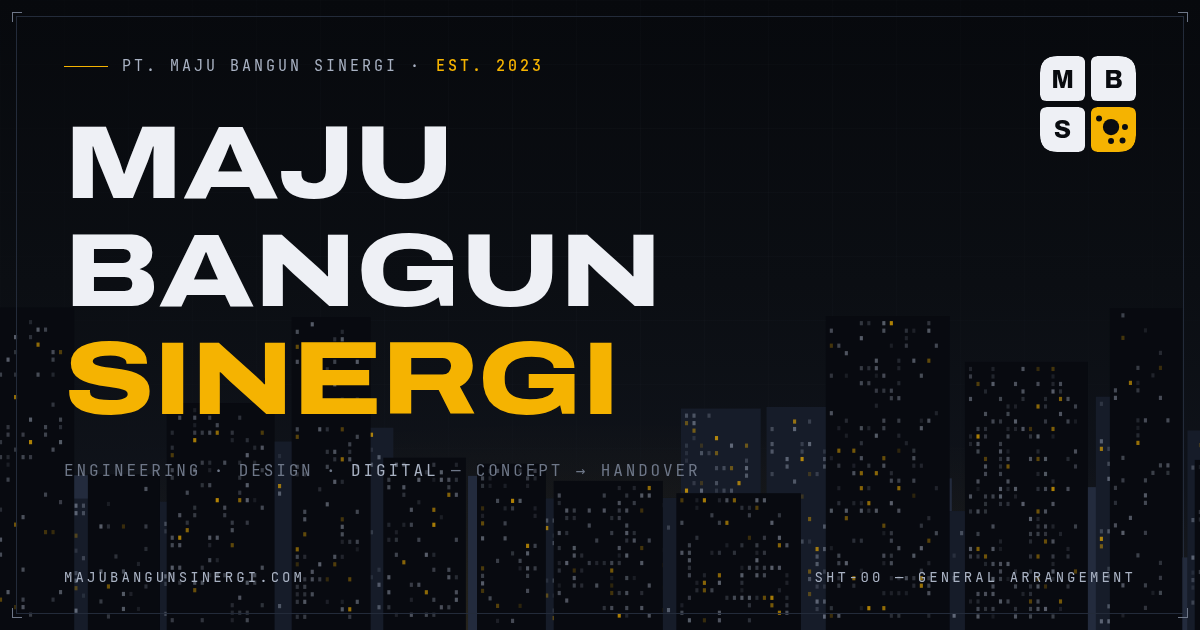
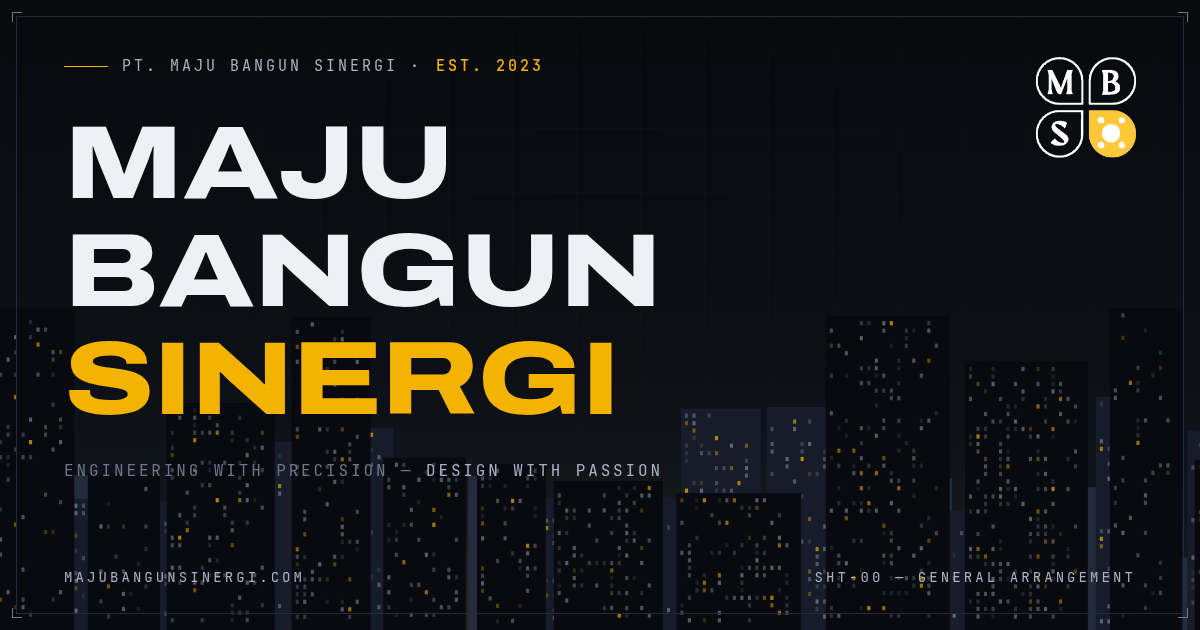
Integrate original brand assets and real contact details
Use the company's actual logo PNG for all brand marks, and pull the
real contact data from the original site files on main: sales e-mail,
WhatsApp number with wa.me links, and the Depok office address (also
in JSON-LD). Adds the "Engineering with Precision, Design with
Passion" tagline, aligns service lists with the original taxonomy
(product design, building automation, AI), and regenerates the OG
card and structured-data logo from the authentic mark.

Claude-Session: https://claude.ai/code/session_01GzoVzJMiJ4jLJJqXyeNzdv

Changed region(s): [[0.8633, 0.0905, 0.9558, 0.2714], [0.185, 0.7238, 0.5858, 0.754]]

diff --git a/index.html b/index.html
@@ -32,7 +32,15 @@
   "foundingDate": "2023",
   "description": "Multidisciplinary engineering company: civil, mechanical and electrical engineering, interior and exterior design, and industrial digital solutions.",
   "logo": "https://majubangunsinergi.com/assets/logo-512.png",
-  "address": { "@type": "PostalAddress", "addressCountry": "ID" }
+  "email": "sales@majubangunsinergi.com",
+  "telephone": "+6285280448499",
+  "address": {
+    "@type": "PostalAddress",
+    "streetAddress": "Jl. Raffles Hills Boulevard No. 23, Sukatani, Kec. Tapos",
+    "addressLocality": "Depok",
+    "addressRegion": "Jawa Barat",
+    "addressCountry": "ID"
+  }
 }
 </script>
 <style>
@@ -164,7 +172,7 @@ button{font:inherit;color:inherit;background:none;border:0;cursor:pointer}
   padding-top:12px;padding-bottom:12px;
 }
 .brand{display:flex;align-items:center;gap:14px;min-width:0}
-.brand .logo{width:42px;height:42px;flex:none}
+.brand .logo{height:42px;width:auto;flex:none}
 .brand-name{display:flex;flex-direction:column;gap:2px;line-height:1}
 .brand-name .nm{
   font-weight:750;font-stretch:118%;font-size:13.5px;letter-spacing:.1em;
@@ -577,7 +585,7 @@ section{position:relative}
   background:repeating-linear-gradient(45deg,transparent 0 9px,var(--line-soft) 9px 10px);
 }
 .tb-stamp{display:flex;align-items:center;gap:14px;padding:22px clamp(20px,2.6vw,32px)}
-.tb-stamp .logo{width:52px;height:52px;flex:none}
+.tb-stamp .logo{height:54px;width:auto;flex:none}
 .tb-stamp .st-txt{font-family:var(--font-mono);font-size:9.5px;letter-spacing:.18em;color:var(--zinc-dim);text-transform:uppercase;line-height:1.8}
 @media (max-width:900px){
   .tblock{grid-template-columns:1fr}
@@ -591,7 +599,7 @@ section{position:relative}
 .site-foot{border-top:1px solid var(--line);padding:34px 0 calc(26px + var(--frame))}
 .site-foot .wrap{display:flex;align-items:center;justify-content:space-between;gap:20px;flex-wrap:wrap}
 .foot-brand{display:flex;align-items:center;gap:12px}
-.foot-brand .logo{width:30px;height:30px}
+.foot-brand .logo{height:34px;width:auto}
 .foot-links{display:flex;gap:26px;list-style:none;flex-wrap:wrap}
 .foot-links a{
   font-family:var(--font-mono);font-size:10.5px;letter-spacing:.16em;text-transform:uppercase;color:var(--zinc-dim);
@@ -680,7 +688,7 @@ section{position:relative}
 
 <header class="site-head" id="top">
   <a class="brand" href="#top" aria-label="PT. Maju Bangun Sinergi — home">
-    <svg class="logo" style="color:var(--paper)" aria-hidden="true"><use href="#mbs-logo"/></svg>
+    <img class="logo" src="assets/logo.png" alt="" width="184" height="191">
     <span class="brand-name">
       <span class="nm">MAJU BANGUN SINERGI</span>
       <span class="sub">PT&nbsp;·&nbsp;ENGINEERING&nbsp;·&nbsp;DESIGN&nbsp;·&nbsp;DIGITAL</span>
@@ -885,7 +893,7 @@ section{position:relative}
             <li>Space planning &amp; concept design</li>
             <li>Interior build-out</li>
             <li>Facade &amp; exterior works</li>
-            <li>Material &amp; lighting specification</li>
+            <li>Product &amp; furniture design</li>
           </ul>
         </article>
 
@@ -903,8 +911,8 @@ section{position:relative}
           <h3>Digital &amp; Automation</h3>
           <p>The amber quadrant of our mark — automation, computer vision, and IT systems that make facilities observable and efficient.</p>
           <ul>
-            <li>Industrial automation &amp; control</li>
-            <li>Computer vision &amp; monitoring</li>
+            <li>Industrial &amp; building automation</li>
+            <li>AI &amp; computer vision</li>
             <li>IT infrastructure &amp; networks</li>
             <li>Custom software &amp; dashboards</li>
           </ul>
@@ -961,7 +969,7 @@ section{position:relative}
       <div class="fact"><span class="k">Founded</span><span class="v"><em>2023</em></span></div>
       <div class="fact"><span class="k">Disciplines</span><span class="v">CIV · MEP<br>DES · DGT</span></div>
       <div class="fact"><span class="k">Delivery</span><span class="v">End-to-<em>end</em></span></div>
-      <div class="fact"><span class="k">Base</span><span class="v">Indonesia</span></div>
+      <div class="fact"><span class="k">Base</span><span class="v">Depok, <em>ID</em></span></div>
     </div>
   </section>
 
@@ -972,8 +980,11 @@ section{position:relative}
       <span class="mono reveal">SHT-04 · ISSUED FOR CONSTRUCTION</span>
       <h2 id="cta-h" class="reveal">Put it on <em>paper.</em></h2>
       <p class="reveal">Tell us what you're building. We'll bring the drawings, the site team, and the software.</p>
-      <a class="btn btn-solid reveal" href="#contact">Start the conversation
-        <svg viewBox="0 0 16 16" fill="none" stroke="currentColor" stroke-width="1.8" aria-hidden="true"><path d="M3 13 13 3M6 3h7v7"/></svg></a>
+      <div class="hero-actions reveal" style="justify-content:center">
+        <a class="btn btn-solid" href="#contact">Start the conversation
+          <svg viewBox="0 0 16 16" fill="none" stroke="currentColor" stroke-width="1.8" aria-hidden="true"><path d="M3 13 13 3M6 3h7v7"/></svg></a>
+        <a class="btn btn-ghost" href="https://wa.me/6285280448499">Chat on WhatsApp</a>
+      </div>
     </div>
   </section>
 
@@ -985,8 +996,6 @@ section{position:relative}
         <div class="tb-form">
           <h3 id="contact-h">Open a project file</h3>
           <p class="hint">A few lines is enough — scope, site, and timeline. We reply with a first read and next steps.</p>
-          <!-- TODO: point this form at your real inbox / form endpoint.
-               It currently opens the visitor's e-mail app addressed to info@majubangunsinergi.com -->
           <form id="inquiry">
             <div class="f-row">
               <div class="field">
@@ -1014,12 +1023,13 @@ section{position:relative}
         <div class="tb-info">
           <div class="tb-cell"><span class="k">Document</span><span class="v mono-v">INQ-01 — PROJECT INQUIRY</span></div>
           <div class="tb-cell"><span class="k">Company</span><span class="v">PT. Maju Bangun Sinergi</span></div>
-          <div class="tb-cell"><span class="k">E-mail</span><a class="v mono-v" href="mailto:info@majubangunsinergi.com">info@majubangunsinergi.com</a></div>
+          <div class="tb-cell"><span class="k">E-mail</span><a class="v mono-v" href="mailto:sales@majubangunsinergi.com">sales@majubangunsinergi.com</a></div>
+          <div class="tb-cell"><span class="k">WhatsApp</span><a class="v mono-v" href="https://wa.me/6285280448499">+62 852-8044-8499</a></div>
+          <div class="tb-cell"><span class="k">Office</span><span class="v" style="font-size:14px;line-height:1.55;font-weight:450">Jl. Raffles Hills Boulevard No. 23,<br>Sukatani, Kec. Tapos, Kota Depok</span></div>
           <div class="tb-cell"><span class="k">Web</span><a class="v mono-v" href="https://majubangunsinergi.com">majubangunsinergi.com</a></div>
-          <div class="tb-cell"><span class="k">Base</span><span class="v">Indonesia</span></div>
           <div class="tb-fill" aria-hidden="true"></div>
           <div class="tb-cell tb-stamp">
-            <svg class="logo" style="color:var(--paper)" aria-hidden="true"><use href="#mbs-logo"/></svg>
+            <img class="logo" src="assets/logo.png" alt="" width="184" height="191">
             <span class="st-txt">SHEET 05 OF 05<br>REV A — 2026<br>SCALE 1:1</span>
           </div>
         </div>
@@ -1032,8 +1042,8 @@ section{position:relative}
 <footer class="site-foot">
   <div class="wrap">
     <div class="foot-brand">
-      <svg class="logo" style="color:var(--paper)" aria-hidden="true"><use href="#mbs-logo"/></svg>
-      <span class="mono">© 2026 PT. MAJU BANGUN SINERGI</span>
+      <img class="logo" src="assets/logo.png" alt="" width="184" height="191">
+      <span class="mono">© 2026 PT. MAJU BANGUN SINERGI<br>ENGINEERING WITH PRECISION — DESIGN WITH PASSION</span>
     </div>
     <ul class="foot-links">
       <li><a href="#about">Company</a></li>
@@ -1108,7 +1118,7 @@ section{position:relative}
         mail = form.email.value.trim(), msg = form.message.value.trim();
     var subject = "Project inquiry — " + name + (org ? " (" + org + ")" : "");
     var body = "Name: " + name + "\nCompany: " + (org||"-") + "\nE-mail: " + mail + "\n\nBrief:\n" + msg;
-    window.location.href = "mailto:info@majubangunsinergi.com?subject=" +
+    window.location.href = "mailto:sales@majubangunsinergi.com?subject=" +
       encodeURIComponent(subject) + "&body=" + encodeURIComponent(body);
   });
 
